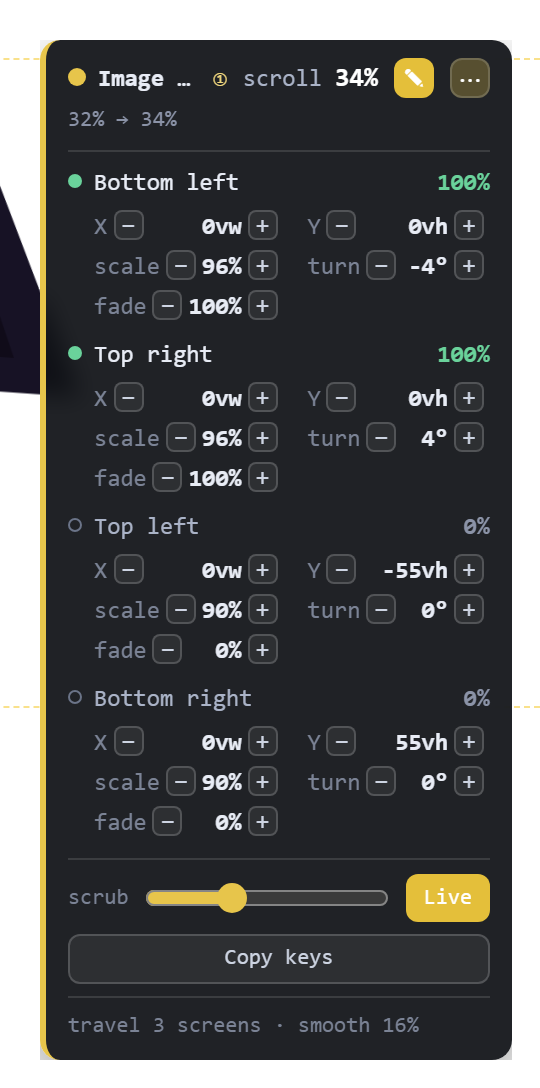
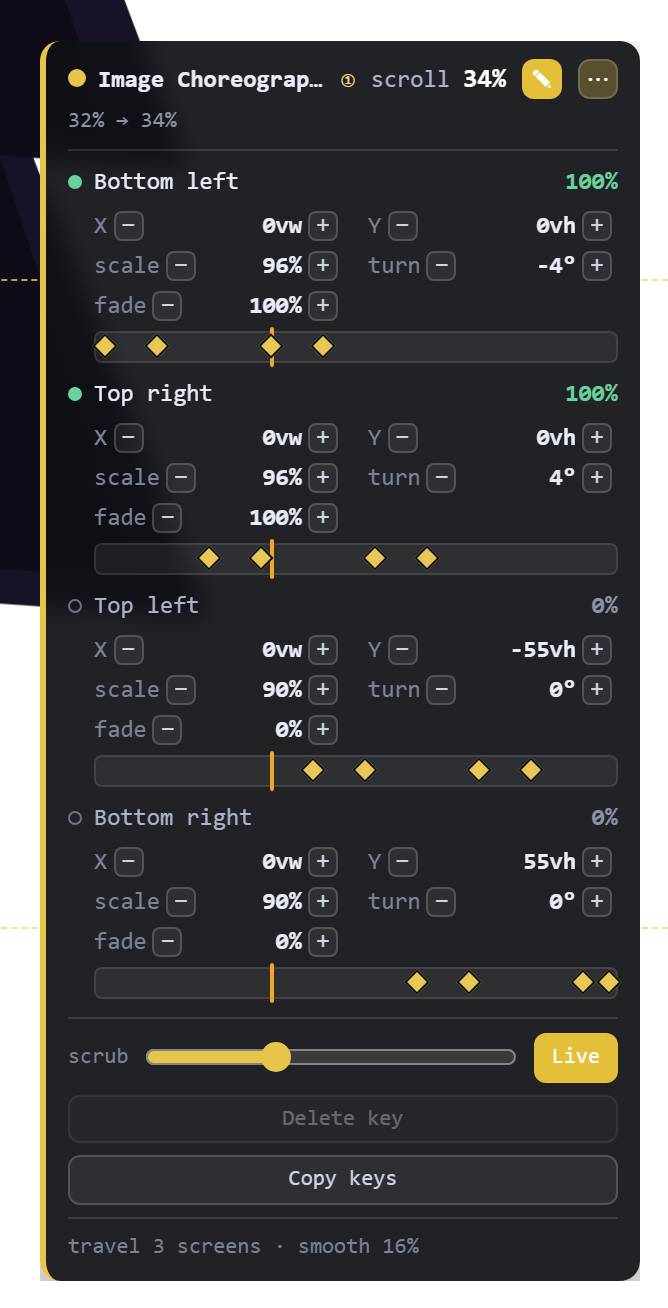
Docs: keyframe-track timeline in the Scroll Choreography live editor

diff --git a/docs/shortcodes/animation-elements/image-scroll-choreography.md b/docs/shortcodes/animation-elements/image-scroll-choreography.md
@@ -64,17 +64,19 @@ Add one **image** per layer. Each has:
 ### Live editor (in the guide)
 
 With the guide on, **signed-in** editors get an **Edit (✎)** button on the guide HUD — a live,
-scrub-and-tweak timeline editor:
+scrub-tweak-and-retime timeline editor:
 
-<img src="/img/shortcodes/image-scroll-choreography-editor.png" alt="The Scroll Choreography guide in edit mode — a scrub playhead at 34%, each layer's X / Y / scale / turn / fade with minus and plus steppers, and a Copy keys button" width="270" />
-
+<img src="/img/shortcodes/image-scroll-choreography-editor.png" alt="The Scroll Choreography guide in edit mode — a scrub playhead at 34%, per-layer keyframe tracks with draggable diamond markers, each layer's X / Y / scale / turn / fade with minus and plus steppers, and Delete key / Copy keys buttons" width="334" />
 
 - **Scrub** — a playhead that **freezes the scene at any %** without scrolling, so you can inspect the
   exact pose at, say, 50%.
-- **± steppers** — nudge the frozen layer's **X / Y / scale / turn / fade** and watch the pose change
-  live (it edits the nearest keyframe).
-- **Copy keys** — copies the edited keyframes as JSON to paste back, then **Live** releases the playhead
-  to follow the real scroll again.
+- **Keyframe track** — each layer gets a **0–100% track with a diamond per keyframe**. **Drag** a diamond
+  to retime that keyframe, **click** it to select it (and scrub the scene to it), **double-click** an empty
+  spot on the track to **add** a keyframe there, and **Delete key** to remove the selected one.
+- **± steppers** — nudge the selected keyframe's **X / Y / scale / turn / fade** and watch the pose change
+  live.
+- **Copy keys / Live** — copy the edited keyframes as JSON to paste back into the element, or **Live** to
+  release the playhead and follow the real scroll again.
 
 It's author-only (it rides on the logged-in-only guide) and never affects what visitors see.
 

diff --git a/docs/shortcodes/animation-elements/text-scroll-choreography.md b/docs/shortcodes/animation-elements/text-scroll-choreography.md
@@ -120,9 +120,12 @@ The shared timeline for the whole group of lines.
 ### Live editor (in the guide)
 
 With the guide on, **signed-in** editors get an **Edit (✎)** button on the guide HUD: **scrub** a playhead
-to freeze the scene at any % without scrolling, nudge each line's **X / Y / scale / turn / fade** with the
-**± steppers** to see the pose change live, then **Copy keys** to paste the tweaked keyframes back (or
-**Live** to release the playhead). Author-only — it never affects what visitors see.
+to freeze the scene at any % without scrolling; each line gets a **keyframe track** — drag a diamond to
+retime a keyframe, click it to select it, double-click the track to add one, **Delete key** to remove it;
+nudge the selected keyframe's **X / Y / scale / turn / fade** with the **± steppers** to see the pose change
+live; then **Copy keys** to paste the result back (or **Live** to release the playhead). Author-only — it
+never affects what visitors see. See [Image Scroll Choreography](./image-scroll-choreography.md#live-editor-in-the-guide)
+for a screenshot.
 
 ## Advanced tab
 
